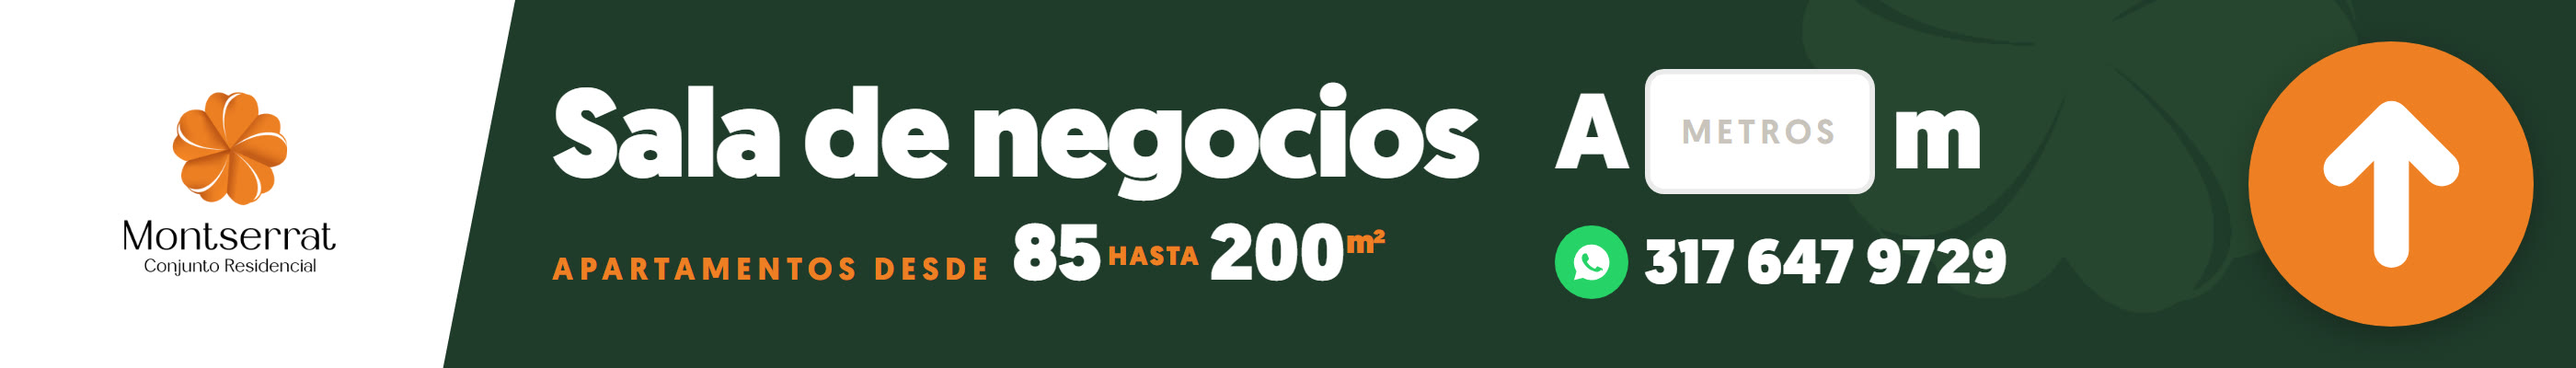
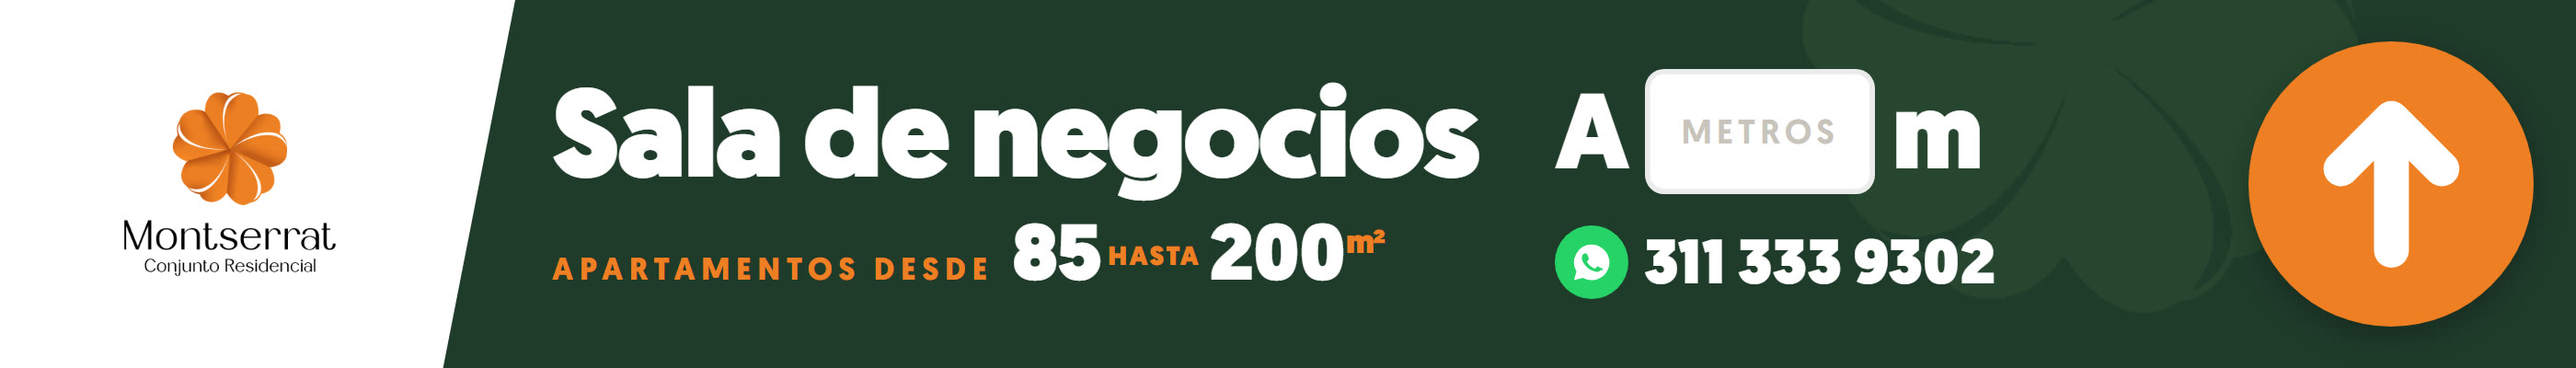
Montserrat II señalización: teléfono 311 333 9302

Changed region(s): [[0.6525, 0.63, 0.7768, 0.78]]

diff --git a/montserratsenalizacion/index.html b/montserratsenalizacion/index.html
@@ -84,7 +84,7 @@ td.no{color:var(--muted)}
 <footer>Montserrat Etapa II · Azulado Inmobiliario</footer>
 <div class="lb" id="lb" hidden role="dialog" aria-modal="true"><div class="bar"><div class="t" id="lt"></div><button id="lx" type="button">Cerrar ✕</button></div><div class="st" id="ls"><img id="li" alt=""></div></div>
 <script>
-var V='?v=4';
+var V='?v=5';
 var S=[
  {t:'Pendones',m:'1 × 2 m · 22 unidades',c:'tall',f:['pendon_1x2_up','pendon_1x2_right','pendon_1x2_left','pendon_1x2_uturn'],n:['A · Adelante','B · Derecha','C · Izquierda','D · Retorno'],q:['13 und','3 und','3 und','3 und']},
  {t:'Bastidores',m:'4 × 0,9 m · 2 unidades',c:'wide',f:['bastidor_4x0.9_lright'],n:['E · Flecha en L derecha'],q:['2 und']},
